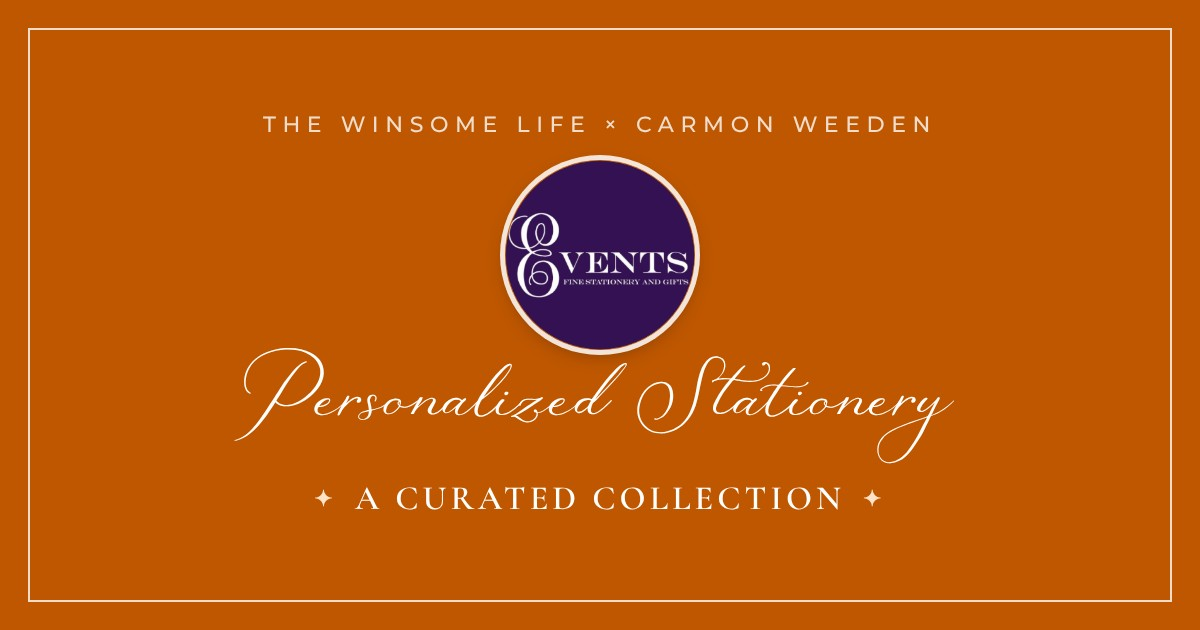
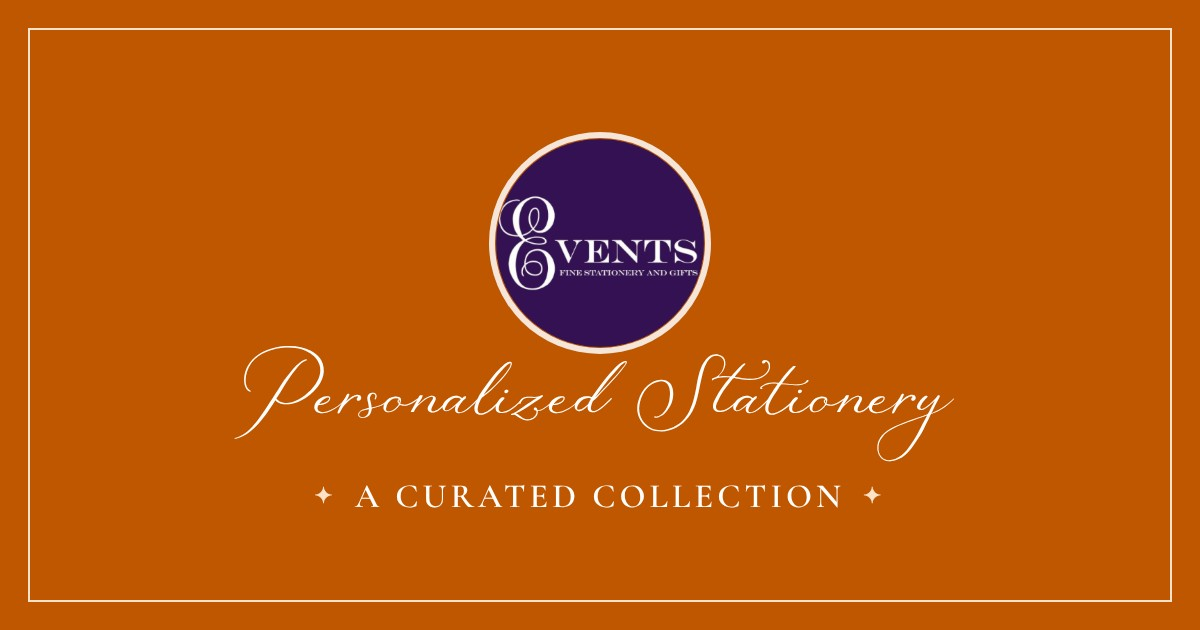
Carmon Weeden partner page: white label
New 'whiteLabel' partner option: no Winsome Life header, menu or footer
(bare layout), no 'The Winsome Life' on the page, in its title or in its
link preview. Product pages, cart and checkout are unchanged.

Claude-Session: https://claude.ai/code/session_01CfVqtoW5zsALxSaAEsBk63

diff --git a/app/routes/partners.$handle.tsx b/app/routes/partners.$handle.tsx
@@ -24,10 +24,13 @@ import {absoluteUrl} from '~/lib/seo';
 
 export const meta: Route.MetaFunction = ({data}) => {
   const name = data?.partner.name ?? 'Partner';
-  const title = `${name} × The Winsome Life`;
-  const description = data?.partner.collection
-    ? `A curated collection of personalized stationery from The Winsome Life, chosen especially for ${name} customers.`
-    : `Personalized stationery from The Winsome Life, especially for ${name} customers.`;
+  const white = !!data?.partner.whiteLabel;
+  const title = white ? `${name} | Personalized Stationery` : `${name} × The Winsome Life`;
+  const description = white
+    ? `A curated collection of personalized stationery, chosen especially for ${name} customers.`
+    : data?.partner.collection
+      ? `A curated collection of personalized stationery from The Winsome Life, chosen especially for ${name} customers.`
+      : `Personalized stationery from The Winsome Life, especially for ${name} customers.`;
   const image = data?.partner.shareImage;
   return [
     {title},
@@ -44,7 +47,7 @@ export const meta: Route.MetaFunction = ({data}) => {
           {property: 'og:image', content: absoluteUrl(image)},
           {property: 'og:image:width', content: '1200'},
           {property: 'og:image:height', content: '630'},
-          {property: 'og:image:alt', content: `The Winsome Life × ${name} — Personalized Stationery, a curated collection`},
+          {property: 'og:image:alt', content: white ? `${name} — Personalized Stationery, a curated collection` : `The Winsome Life × ${name} — Personalized Stationery, a curated collection`},
           {name: 'twitter:card', content: 'summary_large_image'},
           {name: 'twitter:image', content: absoluteUrl(image)},
         ]
@@ -96,7 +99,10 @@ export async function loader({context, params, request}: Route.LoaderArgs) {
   const customerView =
     !!partner.viewToggle && new URL(request.url).searchParams.get('view') === 'customer';
 
-  return data({partner, ...rest, sections, customerView}, headers ? {headers} : undefined);
+  return data(
+    {partner, ...rest, sections, customerView, whiteLabel: !!partner.whiteLabel},
+    headers ? {headers} : undefined,
+  );
 }
 
 export default function PartnerPage() {
@@ -115,10 +121,12 @@ export default function PartnerPage() {
         style={{background: colors.background, color: colors.text}}
       >
         <div className="container max-w-5xl mx-auto px-5 lg:px-8 py-12 lg:py-16 text-center">
-          <p className="font-sans font-medium text-[13px] md:text-sm tracking-[0.25em] uppercase opacity-80">
-            The Winsome Life <span aria-hidden>×</span>
-            <span className="sr-only">and</span> {partner.name}
-          </p>
+          {!partner.whiteLabel && (
+            <p className="font-sans font-medium text-[13px] md:text-sm tracking-[0.25em] uppercase opacity-80">
+              The Winsome Life <span aria-hidden>×</span>
+              <span className="sr-only">and</span> {partner.name}
+            </p>
+          )}
           {partner.photo && (
             <div className="mt-6 mx-auto w-56 md:w-64 bg-white p-2 shadow-[0_14px_30px_-14px_rgba(0,0,0,0.35)]">
               <img
@@ -236,11 +244,17 @@ export default function PartnerPage() {
           </div>
         )}
         <p className="mt-16 text-center font-sans font-light text-[13px] text-[#2D2D2D]/55">
-          Every piece is personalized and made to order by{' '}
-          <Link to="/" className="underline decoration-[#C9A96E] underline-offset-2 hover:text-[#C9A96E]">
-            The Winsome Life
-          </Link>
-          .
+          {partner.whiteLabel ? (
+            <>Every piece is personalized and made to order.</>
+          ) : (
+            <>
+              Every piece is personalized and made to order by{' '}
+              <Link to="/" className="underline decoration-[#C9A96E] underline-offset-2 hover:text-[#C9A96E]">
+                The Winsome Life
+              </Link>
+              .
+            </>
+          )}
         </p>
       </section>
     </main>

diff --git a/app/lib/partners.ts b/app/lib/partners.ts
@@ -38,6 +38,13 @@ export type Partner = {
   discountCode: string;
   /** Shown on the page, e.g. 15 → "15% off". null = don't state an amount. */
   discountPercent: number | null;
+  /**
+   * White label: the page shows only the partner's brand — no Winsome Life
+   * header, menu or footer, and no "The Winsome Life" mentions on the page
+   * or in its link preview. (Product pages, cart and checkout are still The
+   * Winsome Life's.)
+   */
+  whiteLabel?: boolean;
   /** Small line under the partner's name, e.g. "Lake Geneva, WI". */
   location?: string;
   /** Short welcome under the heading. */
@@ -83,13 +90,15 @@ export const PARTNERS: Record<string, Partner> = {
   'carmon-weeden': {
     handle: 'carmon-weeden',
     name: 'Carmon Weeden',
+    // White label (Sydney, Nov 2026).
+    whiteLabel: true,
     collection: 'partner-carmon-weeden',
     // Shopify code discount CARMONW30: 30% off (most collections), ends
     // Dec 31, 2026.
     discountCode: 'CARMONW30',
     discountPercent: 30,
     intro:
-      'A curated collection of The Winsome Life’s personalized stationery, chosen especially for Carmon Weeden customers.',
+      'A curated collection of personalized stationery, chosen especially for Carmon Weeden customers.',
     logo: carmonWeedenLogo,
     logoRound: true,
     viewToggle: true,

diff --git a/app/root.tsx b/app/root.tsx
@@ -210,8 +210,12 @@ gtag('config', 'G-H9RRG960BX');`,
 
 export default function App() {
   const data = useRouteLoaderData<RootLoader>('root');
+  // Bare: no site header/menu/footer — printable pages (handle.bare) and
+  // white-label partner pages (their loader returns whiteLabel: true).
   const bare = useMatches().some(
-    (m) => (m.handle as {bare?: boolean} | undefined)?.bare,
+    (m) =>
+      (m.handle as {bare?: boolean} | undefined)?.bare ||
+      (m.data as {whiteLabel?: boolean} | undefined)?.whiteLabel,
   );
 
   if (!data) {
